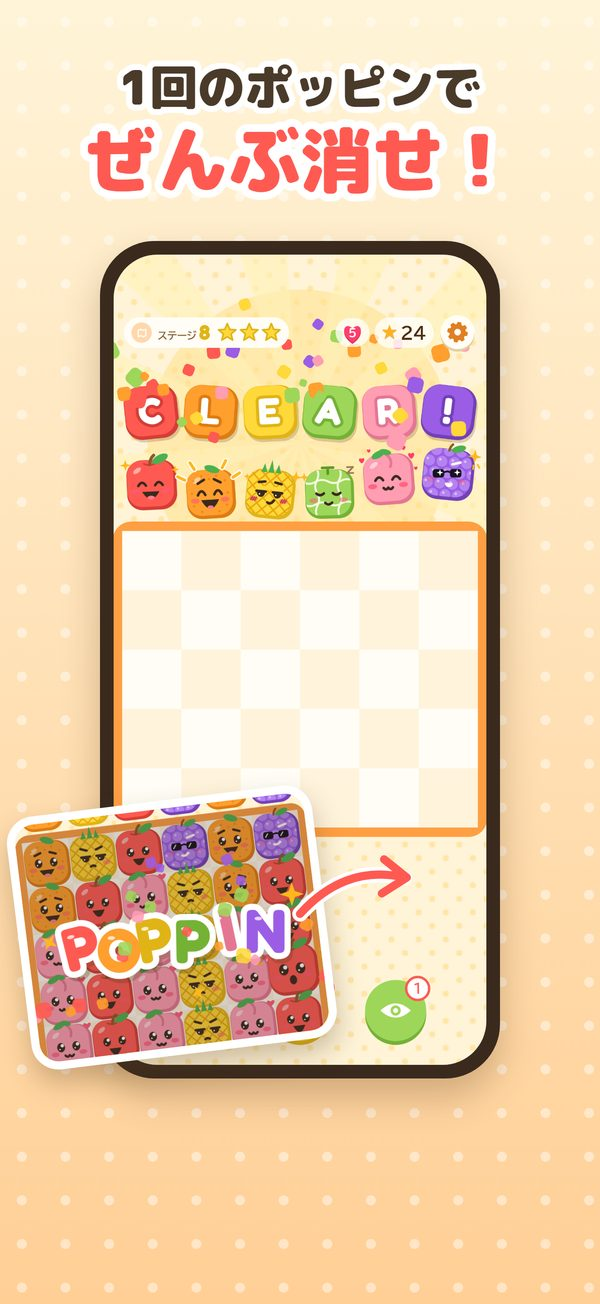
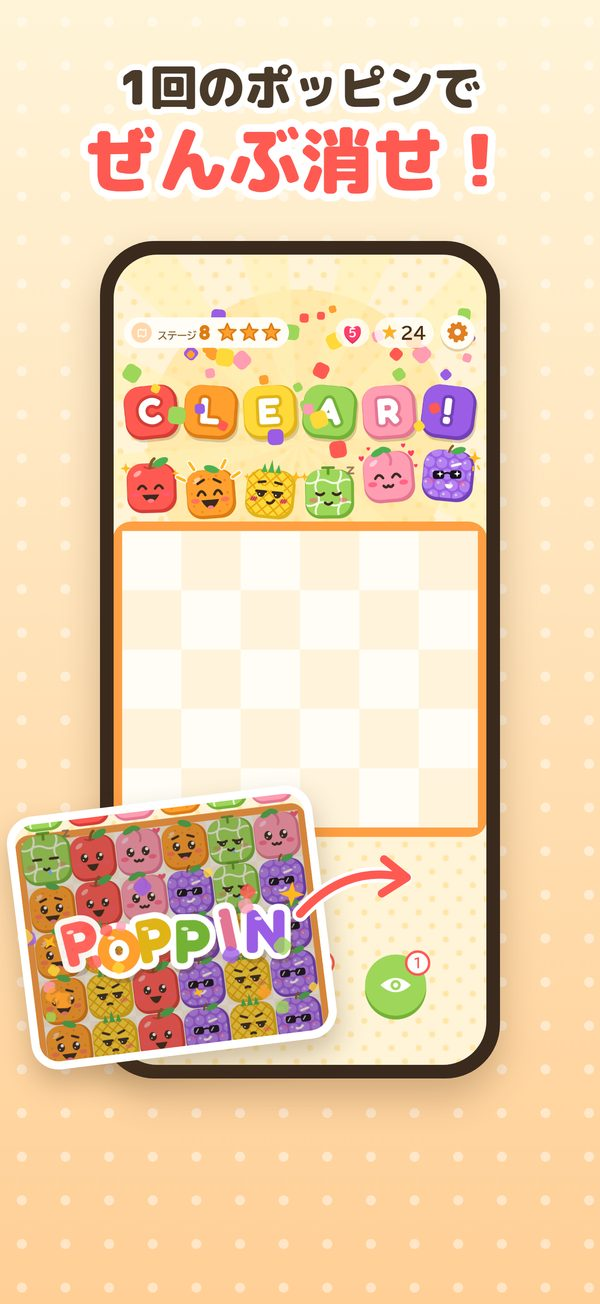
ポッピンフルーツの紹介ページの写真3枚を差し替え、2行を足す（S421）
- 写真は今のゲームの物。配信中の1行と、練習・ヒントの1行を足した
- NG の言葉の点検：NG なし

diff --git a/poppin-fruits/index.html b/poppin-fruits/index.html
@@ -15,6 +15,7 @@ main{max-width:720px;margin:0 auto;padding:0 16px 48px}
 .hero img{display:block;width:100%;height:auto}
 h1{font-size:28px;line-height:1.4;margin:8px 0 6px}
 .lead{font-size:18px;margin:0 0 20px}
+.avail{font-size:15px;color:var(--sub);margin:0 0 4px}
 .badge{display:inline-block;padding:12px;margin:0 0 8px -12px}
 .badge img{display:block;height:48px;width:auto}
 h2{font-size:18px;line-height:1.5;margin:28px 0 8px;padding-top:16px;border-top:1px solid var(--line)}
@@ -34,6 +35,7 @@ footer p{margin:0 0 6px}
 <div class="hero"><img src="img/header.jpg" width="1500" height="500" alt="ポッピンフルーツ"></div>
 <h1>ポッピンフルーツ</h1>
 <p class="lead">フルーツを1つつかんで、なぞって入れかえ。ダブルタップでポッピン！</p>
+<p class="avail">App Store で配信中（iPhone）。Android 版は準備中です。</p>
 <a class="badge" href="https://apps.apple.com/jp/app/apple-store/id6830121730?pt=129691918&amp;ct=site_top&amp;mt=8"><img src="img/badge-appstore-ja.svg" alt="App Store からダウンロード" height="48"></a>
 
 <h2>遊び方</h2>
@@ -43,10 +45,11 @@ footer p{margin:0 0 6px}
 <li>ダブルタップでポッピン</li>
 </ol>
 <p>全部消せたらクリアです。</p>
+<p>はじめての人は、短い練習から始められます。困ったら、ヒント1つで そろえる所と動かすフルーツ、2つで次の3手まで分かります。</p>
 <div class="shots">
 <img src="img/shot1.jpg" width="600" height="1304" alt="1回のポッピンで全部消せ！" loading="lazy">
 <img src="img/shot2.jpg" width="600" height="1304" alt="つかんで、なぞって入れかえる" loading="lazy">
-<img src="img/shot3.jpg" width="600" height="1304" alt="落ちて、そろって、また消える" loading="lazy">
+<img src="img/shot3.jpg" width="600" height="1304" alt="そろったフルーツが、つぎつぎ消える" loading="lazy">
 </div>
 <p>このゲームには広告が表示されます。</p>
 
